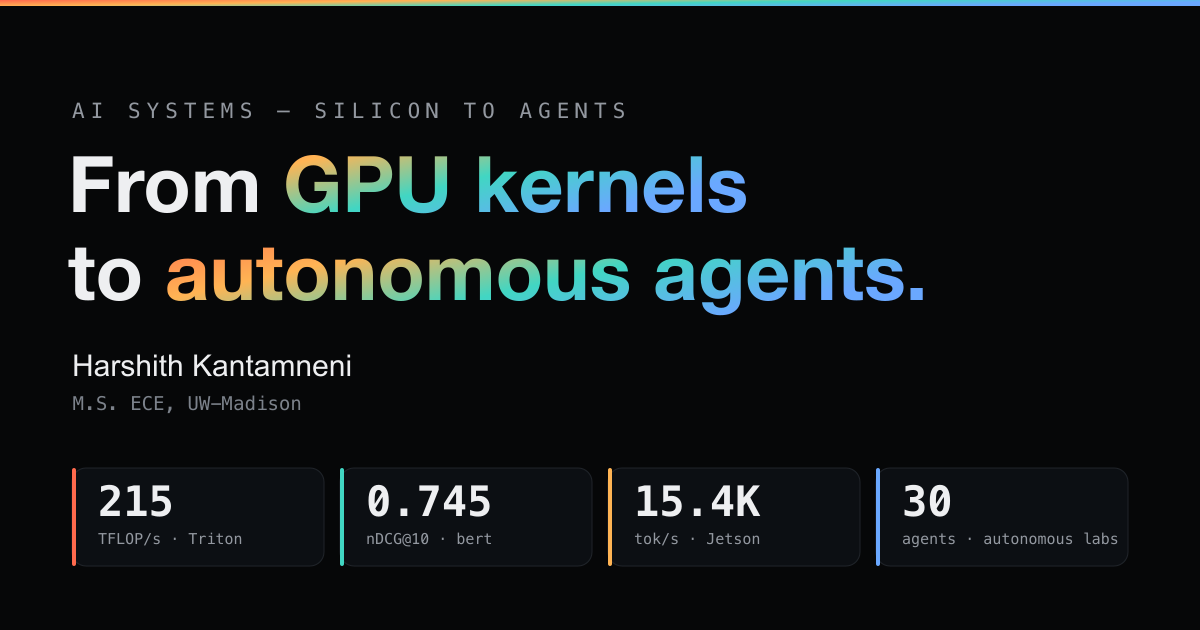
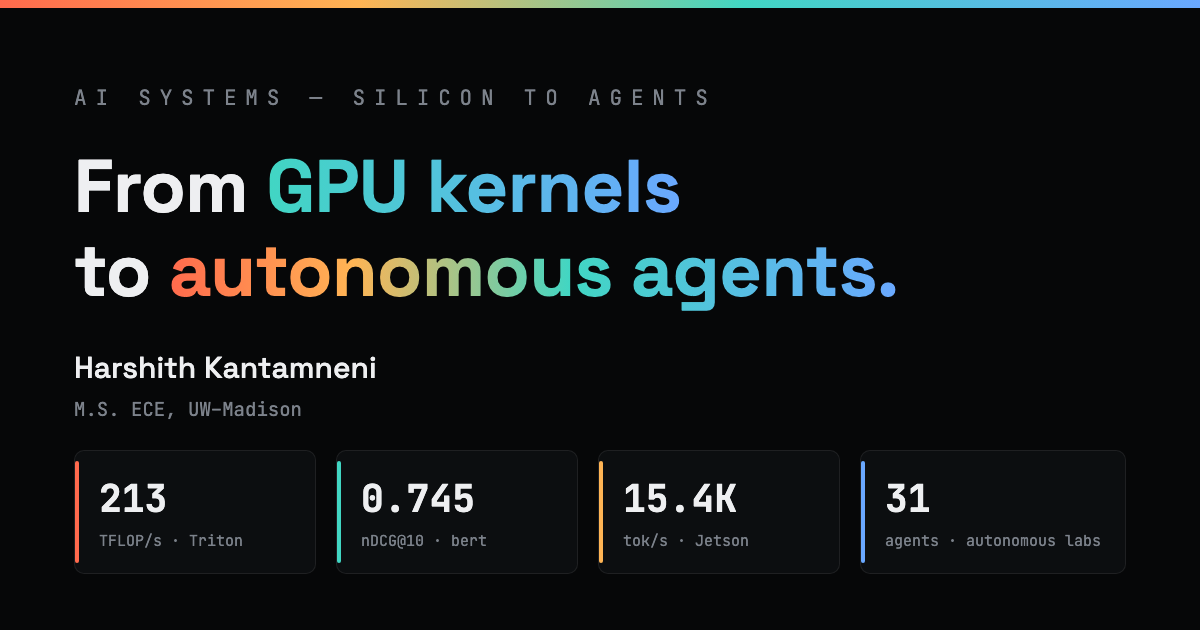
site: align all claims with repo receipts (213 TFLOP/s bare GEMM, 31 agents, 13-stage Obsidian, fusion saves two launches) + regenerate og image + resume

diff --git a/site/index.html b/site/index.html
@@ -9,7 +9,7 @@
 <link rel="canonical" href="https://harshithkantamneni.github.io/">
 <link rel="icon" href="/favicon.svg" type="image/svg+xml">
 <meta property="og:title" content="Harshith Kantamneni · AI Systems Engineer">
-<meta property="og:description" content="From GPU kernels to autonomous agents. 215 TFLOP/s Triton kernels, 0.745 nDCG retrieval, autonomous multi-agent labs.">
+<meta property="og:description" content="From GPU kernels to autonomous agents. 213 TFLOP/s Triton GEMM, 0.745 nDCG retrieval, autonomous multi-agent labs.">
 <meta property="og:type" content="website">
 <meta property="og:url" content="https://harshithkantamneni.github.io/">
 <meta property="og:image" content="https://harshithkantamneni.github.io/og.png">
@@ -222,10 +222,10 @@
   <div class="reveal">
     <div class="stackhead"><span>Fig.01 · The Stack</span><span>Silicon → Agents</span></div>
     <div class="stack">
-      <div class="layer" style="--c:var(--a)"><div class="ix">04</div><div><div class="nm">Agents &amp; Orchestration</div><div class="tc">multi-agent · MCP · governance</div></div><div class="lm"><span class="n">30</span><span class="s">autonomous agents</span></div></div>
+      <div class="layer" style="--c:var(--a)"><div class="ix">04</div><div><div class="nm">Agents &amp; Orchestration</div><div class="tc">multi-agent · MCP · governance</div></div><div class="lm"><span class="n">31</span><span class="s">autonomous agents</span></div></div>
       <div class="layer" style="--c:var(--r)"><div class="ix">03</div><div><div class="nm">Retrieval &amp; Memory</div><div class="tc">sqlite-vec · BM25 · RRF · rerank</div></div><div class="lm"><span class="n">0.745</span><span class="s">nDCG@10 · vs .665 BM25</span></div></div>
-      <div class="layer" style="--c:var(--i)"><div class="ix">02</div><div><div class="nm">LLM Inference</div><div class="tc">FlashAttention · KV-cache · quant</div></div><div class="lm"><span class="n">15.4K</span><span class="s">Jetson · single-stream decode</span></div></div>
-      <div class="layer" style="--c:var(--k)"><div class="ix">01</div><div><div class="nm">GPU Kernels · Silicon</div><div class="tc">CUDA · Triton · GEMM fusion</div></div><div class="lm"><span class="n">215</span><span class="s">Triton · TFLOP/s</span></div></div>
+      <div class="layer" style="--c:var(--i)"><div class="ix">02</div><div><div class="nm">LLM Inference</div><div class="tc">FlashAttention · KV-cache · Nsight</div></div><div class="lm"><span class="n">15.4K</span><span class="s">Jetson · single-stream decode</span></div></div>
+      <div class="layer" style="--c:var(--k)"><div class="ix">01</div><div><div class="nm">GPU Kernels · Silicon</div><div class="tc">CUDA · Triton · GEMM fusion</div></div><div class="lm"><span class="n">213</span><span class="s">Triton · TFLOP/s</span></div></div>
     </div>
   </div>
 </header>
@@ -240,16 +240,16 @@
   <div class="case-top"><div><div class="case-tag">The whole column</div><h2 class="case-title">I work the whole stack.</h2><p class="case-sub">From hand-written GPU kernels at the bottom to multi-agent systems at the top. Working every layer is how I find the one that owns the latency.</p></div></div>
   <div class="scrolly">
     <div class="viz sv">
-      <div class="dl act" data-l="0" style="--c:var(--a)"><div class="di">04</div><div><div class="dn">Agents &amp; Orchestration</div><div class="dt">multi-agent · MCP · governance</div></div><div class="dm">30</div></div>
+      <div class="dl act" data-l="0" style="--c:var(--a)"><div class="di">04</div><div><div class="dn">Agents &amp; Orchestration</div><div class="dt">multi-agent · MCP · governance</div></div><div class="dm">31</div></div>
       <div class="dl" data-l="1" style="--c:var(--r)"><div class="di">03</div><div><div class="dn">Retrieval &amp; Memory</div><div class="dt">sqlite-vec · BM25 · RRF · rerank</div></div><div class="dm">0.745</div></div>
-      <div class="dl" data-l="2" style="--c:var(--i)"><div class="di">02</div><div><div class="dn">LLM Inference</div><div class="dt">FlashAttention · KV-cache · quant</div></div><div class="dm">15.4K</div></div>
-      <div class="dl" data-l="3" style="--c:var(--k)"><div class="di">01</div><div><div class="dn">GPU Kernels · Silicon</div><div class="dt">CUDA · Triton · GEMM fusion</div></div><div class="dm">215</div></div>
+      <div class="dl" data-l="2" style="--c:var(--i)"><div class="di">02</div><div><div class="dn">LLM Inference</div><div class="dt">FlashAttention · KV-cache · Nsight</div></div><div class="dm">15.4K</div></div>
+      <div class="dl" data-l="3" style="--c:var(--k)"><div class="di">01</div><div><div class="dn">GPU Kernels · Silicon</div><div class="dt">CUDA · Triton · GEMM fusion</div></div><div class="dm">213</div></div>
     </div>
     <div class="steps" id="sy-stack">
-      <div class="step" data-step="0"><div class="k" style="color:var(--a)">04 · Agents</div><h3>Autonomous systems that build software.</h3><p>An autonomous ML research lab and HIVE, a multi-agent org, ship from pre-registered plans. I built their orchestration and signed-proof-packet governance (cosign / SLSA).</p></div>
+      <div class="step" data-step="0"><div class="k" style="color:var(--a)">04 · Agents</div><h3>Autonomous systems that build software.</h3><p>An autonomous ML research lab and HIVE, a multi-agent org, ship from pre-registered plans. I built their orchestration and anti-forgery sign-off governance.</p></div>
       <div class="step" data-step="1"><div class="k" style="color:var(--r)">03 · Retrieval</div><h3>Memory that beats the context wall.</h3><p>bert gives agents a searchable memory of a whole codebase. Hybrid retrieval, fully local, built for projects that outgrow a 1M-token window.</p></div>
-      <div class="step" data-step="2"><div class="k" style="color:var(--i)">02 · Inference</div><h3>LLM inference, profiled and tuned.</h3><p>Attention and KV-cache decode profiled on edge silicon: FlashAttention vs SDPA, plus quantization. 15.4K tok/s on a single-stream KV-cache decode microbenchmark, Jetson Orin Nano.</p></div>
-      <div class="step" data-step="3"><div class="k" style="color:var(--k)">01 · Kernels</div><h3>Down to the metal.</h3><p>Hand-written Triton kernels, GEMM fusion, removing HBM round-trips. Up to 1.73× lower latency than the unfused path on memory-bound FFN. The bare GEMM sustains 215 TFLOP/s on an A100.</p></div>
+      <div class="step" data-step="2"><div class="k" style="color:var(--i)">02 · Inference</div><h3>LLM inference, profiled and tuned.</h3><p>Attention and KV-cache decode profiled on edge silicon: fused SDPA (FlashAttention backend) vs naive attention. 15.4K tok/s on a single-stream KV-cache decode microbenchmark, Jetson Orin Nano.</p></div>
+      <div class="step" data-step="3"><div class="k" style="color:var(--k)">01 · Kernels</div><h3>Down to the metal.</h3><p>Hand-written Triton kernels, GEMM fusion, removing HBM round-trips. Up to 1.73× lower latency than the unfused path on memory-bound FFN. The bare autotuned GEMM peaks at 213 TFLOP/s on an A100.</p></div>
     </div>
   </div>
 </section>
@@ -259,7 +259,7 @@
   <div class="case-top"><div><div class="case-tag" style="color:var(--r)">Layer 03 · Retrieval &amp; Memory · Case 01</div><h2 class="case-title">bert</h2><p class="case-sub">A local MCP server that gives AI coding assistants a searchable memory of an entire codebase. Past the context window, full-context stuffing fails and truncation drops the answer. Retrieval reads only the slice that matters.</p></div><a href="https://github.com/harshithkantamneni/bert" class="btn g">View the repo →</a></div>
   <div class="scrolly">
     <div class="viz">
-      <div class="vh"><span>Accuracy vs. codebase size</span><span id="vizlabel">httpx + starlette corpus</span></div>
+      <div class="vh"><span>Accuracy vs. codebase size</span><span id="vizlabel">httpx + starlette corpus (padded to 3M)</span></div>
       <div class="chartwrap">
         <svg viewBox="0 0 460 360" width="100%" height="100%" font-family="JetBrains Mono" role="img" aria-label="Answer accuracy versus codebase size. As the codebase grows past the 1M-token context window, truncation accuracy falls from about 0.85 to 0.00, while bert hybrid retrieval holds between 0.85 and 0.75. On BEIR scifact the full stack scores 0.745 nDCG at 10.">
           <g stroke="#20242a" stroke-width="1"><line x1="60" y1="30" x2="430" y2="30"/><line x1="60" y1="100" x2="430" y2="100"/><line x1="60" y1="170" x2="430" y2="170"/><line x1="60" y1="240" x2="430" y2="240"/><line x1="60" y1="310" x2="430" y2="310"/></g>
@@ -276,12 +276,12 @@
           <text class="pt" x="345" y="280" fill="#9398A0" font-size="10" text-anchor="end">truncation → 0</text>
         </svg>
       </div>
-      <div class="bigstat"><span class="num" id="vstat">0.85</span><span class="cap" id="vcap">answer accuracy · hand-labeled gold set</span></div>
+      <div class="bigstat"><span class="num" id="vstat">0.85</span><span class="cap" id="vcap">answer accuracy · span-validated gold set</span></div>
     </div>
     <div class="steps" id="sy-bert">
       <div class="step" data-step="0"><div class="k">The problem</div><h3>A 3M-token codebase does not fit in a 1M-token window.</h3><p>At 3M tokens the project is 3× the window, so full-context is not an option. Truncate to fit and you drop the file the answer lives in. Accuracy collapses toward 0.00.</p></div>
       <div class="step" data-step="1"><div class="k">The build</div><h3>Hybrid retrieval, fully local.</h3><p>Dense vectors (sqlite-vec + bge-base-en-v1.5) and BM25 keyword search, fused by reciprocal-rank fusion, reranked by a cross-encoder. No API keys, no LLM calls. The host model only sees the slice that matters.</p></div>
-      <div class="step" data-step="2"><div class="k">The result</div><h3>Accuracy holds as the codebase grows.</h3><p>When the project fits in the window, full-context stuffing wins outright. Past it, bert retrieves only the relevant slice and holds <b style="color:var(--ink)">0.75 to 0.85</b> on a span-validated gold set, reading 4.6× fewer input tokens than truncation.</p></div>
+      <div class="step" data-step="2"><div class="k">The result</div><h3>Accuracy holds as the codebase grows.</h3><p>When the project fits in the window, full-context stuffing wins outright. Past it, bert retrieves only the relevant slice and holds <b style="color:var(--ink)">0.85 down to 0.75 at 3M</b> on a span-validated gold set, reading 4.6× fewer input tokens than truncation.</p></div>
       <div class="step" data-step="3"><div class="k">The debugging win</div><h3>A silent bug had pinned it at near-random.</h3><div class="big"><span>0.10</span> <span class="to">→ <span id="cnt">0.85</span></span></div><p>A dict-key mismatch zeroed the dense signal and a 240-char truncation dropped answer spans. Root-caused and fixed, accuracy went from 0.10 to 0.85.</p></div>
       <div class="step" data-step="4"><div class="k">Validated</div><h3>0.745 nDCG@10 on a public IR benchmark.</h3><p>Across three BEIR datasets (scifact, nfcorpus, fiqa) bge-base matches the published reference on all three. On scifact the full stack (bge-base-en-v1.5 dense vectors plus BM25, reranked by a cross-encoder) scores 0.745 against a published BM25 baseline of 0.665, on par with bge-base-en-v1.5's own published scifact result (0.741). A public benchmark on public datasets, not a self-defined one.</p></div>
     </div>
@@ -289,7 +289,7 @@
   <div class="bento">
     <div class="b reveal"><div class="bl">Interface</div><div class="bn">MCP</div><div class="bd">Local stdio server, JSON-RPC 2.0. Drops into Claude Code, Cursor, Codex.</div></div>
     <div class="b accent reveal"><div class="bl">BEIR scifact</div><div class="bn">0.745</div><div class="bd">nDCG@10, bge-base + BM25 + cross-encoder rerank. +0.080 over BM25 (0.665).</div></div>
-    <div class="b reveal"><div class="bl">Over-window</div><div class="bn">0.75</div><div class="bd">Accuracy on a hand-labeled, span-validated set (small n) at 3M tokens, where full-context is infeasible and truncation is 0.00.</div></div>
+    <div class="b reveal"><div class="bl">Over-window</div><div class="bn">0.75</div><div class="bd">Accuracy on a blind-authored, span-validated set (small n) at 3M tokens, where full-context is infeasible and truncation is 0.00.</div></div>
     <div class="b reveal"><div class="bl">Cost</div><div class="bn">~3.3K</div><div class="bd">Input tokens per query. ~4.6× fewer than truncation, higher accuracy.</div></div>
   </div>
 </section>
@@ -307,7 +307,7 @@
         </div>
         <div class="tframe" data-f="1">
           <div class="fused"><div class="fblock">linear + bias + GeLU<span>one fused kernel</span></div></div>
-          <div class="tnote">One launch. The intermediate stays in registers. An HBM round-trip and a kernel launch, gone.</div>
+          <div class="tnote">One launch. The intermediate stays in registers. Two HBM round-trips and two kernel launches, gone.</div>
         </div>
         <div class="tframe" data-f="2">
           <div class="tlead"><div class="tnum">1.73×</div><div class="tcap">vs the unfused path<br>on small-batch FFN</div></div>
@@ -321,18 +321,18 @@
           <div class="tnote">76 shapes profiled. Median 0.96× (near parity), 27 shapes win. Fusion pays off on small-batch, memory-bound FFN, the latency-bound decode regime. At large batch the GEMM goes compute-bound and the vendor path wins.</div>
         </div>
       </div>
-      <div class="tfoot">Tiled GEMM sustains <b>215 TFLOP/s</b><span>, 69% of the A100's fp16 tensor-core peak (cuBLAS peaks at ~79% on the same shapes, so the win is fusion, not raw GEMM throughput). p50 of CUDA-event-timed runs, fp16. Baseline is the unfused path: a cuBLAS GEMM plus separate bias and GeLU, PyTorch 2.1 eager.</span></div>
+      <div class="tfoot">Bare autotuned GEMM peaks at <b>213 TFLOP/s</b><span>, 68% of the A100's fp16 tensor-core peak (cuBLAS reaches ~82% on the same shapes, so the win is fusion, not raw GEMM throughput). p50 of CUDA-event-timed runs, fp16. Baseline is the unfused path: a cuBLAS GEMM plus separate bias and GeLU, PyTorch eager (2.1+).</span></div>
     </div>
     <div class="steps" id="sy-triton">
       <div class="step" data-step="0"><div class="k">The problem</div><h3>Small-batch FFN projections are memory-bound.</h3><p>Linear, then bias, then GeLU: three passes, each writing to HBM and relaunching. On small batches the GPU spends more time moving data than computing.</p></div>
-      <div class="step" data-step="1"><div class="k">The build</div><h3>Fuse the three into one Triton kernel.</h3><p>linear + bias + GeLU in a single launch, keeping the intermediate in registers. One HBM round-trip and one kernel launch, gone.</p></div>
-      <div class="step" data-step="2"><div class="k">The result</div><h3>Up to 1.73× lower latency.</h3><div class="big"><span class="to" style="color:var(--i)">1.73×</span></div><p>On the best small-batch FFN shape, M=128, N=11008, K=4096. The tiled Triton GEMM sustains 215 TFLOP/s, 69% of the A100's fp16 tensor-core peak.</p></div>
+      <div class="step" data-step="1"><div class="k">The build</div><h3>Fuse the three into one Triton kernel.</h3><p>linear + bias + GeLU in a single launch, keeping the intermediate in registers. Two HBM round-trips and two kernel launches, gone.</p></div>
+      <div class="step" data-step="2"><div class="k">The result</div><h3>Up to 1.73× lower latency.</h3><div class="big"><span class="to" style="color:var(--i)">1.73×</span></div><p>On the best small-batch FFN shape, M=128, N=11008, K=4096. The bare autotuned Triton GEMM peaks at 213 TFLOP/s, 68% of the A100's fp16 tensor-core peak.</p></div>
       <div class="step" data-step="3"><div class="k">The finding</div><h3>Where custom kernels pay off.</h3><p>I profiled all 76 shapes on p50/p90 latency, throughput, bandwidth, and jitter to find the line where a fused kernel beats cuBLAS and where the vendor library already wins. Small, skinny GEMMs favor fusion. Mapping that boundary is the result.</p></div>
     </div>
   </div>
   <div class="bento">
     <div class="b reveal"><div class="bl">Shapes profiled</div><div class="bn">76</div><div class="bd">LLM-shaped GEMMs across Triton and cuBLAS on an A100.</div></div>
-    <div class="b accent reveal" style="background:linear-gradient(180deg,rgba(255,180,84,.09),transparent)"><div class="bl">Peak throughput</div><div class="bn" style="color:var(--i)">215</div><div class="bd">TFLOP/s, 69% of fp16 tensor-core peak.</div></div>
+    <div class="b accent reveal" style="background:linear-gradient(180deg,rgba(255,180,84,.09),transparent)"><div class="bl">Peak throughput</div><div class="bn" style="color:var(--i)">213</div><div class="bd">TFLOP/s, 68% of fp16 tensor-core peak, bare autotuned GEMM.</div></div>
     <div class="b reveal"><div class="bl">Best speedup</div><div class="bn">1.73×</div><div class="bd">on small-batch FFN. Median across 76 shapes is 0.96×, parity, with 27 wins.</div></div>
     <div class="b reveal"><div class="bl">Tooling</div><div class="bn" style="font-size:24px">Nsight</div><div class="bd">CUDA event timing, roofline, tail-jitter analysis.</div></div>
   </div>
@@ -343,11 +343,11 @@
   <div class="shead reveal"><span class="mk">02</span><h2>Selected work</h2><span class="srule"></span></div>
   <div class="pgrid">
     <a class="proj span6 feat" href="https://github.com/harshithkantamneni/edge-llm-gpu-profiling" target="_blank" rel="noopener" style="--c:var(--i)"><span class="arrow" aria-hidden="true">↗</span><div><div class="pl">LLM Inference · Edge · Featured</div><div class="pn">Jetson Orin Nano profiling</div><div class="pd">Attention and KV-cache decode kernels profiled with Nsight on a 15W edge SoC. Fused SDPA measured 5.6× over naive attention. Single-stream KV-cache decode held ~15.4K tok/s on synthetic shapes before the cache-growth knee.</div></div><div class="pbig" style="color:var(--i)">5.6×<span>fused SDPA vs naive</span></div></a>
-    <a class="proj span6 feat" href="https://github.com/harshithkantamneni/obsidian-engine" target="_blank" rel="noopener" style="--c:var(--a)"><span class="arrow" aria-hidden="true">↗</span><div><div class="pl">Autonomous Pipeline · Featured</div><div class="pn">The Obsidian Archive</div><div class="pd">A 15-stage agent pipeline that researches, scripts, renders, and uploads documentaries to a live YouTube channel, with every video gated by a multi-agent review War Room of critics, fact-checkers, a red team, and convergence gates. Deployed on Railway with a Supabase backend.</div></div><div class="pbig" style="color:var(--a)">110<span>role review War Room</span></div></a>
-    <a class="proj span3" href="https://github.com/harshithkantamneni/agi-lab-framework" target="_blank" rel="noopener" style="--c:var(--a)"><span class="arrow" aria-hidden="true">↗</span><div><div class="pl">Autonomous Lab</div><div class="pn">30-agent ML research lab</div><div class="pd">Agents write a from-scratch MoE transformer in C17: hand-written tensors, backprop, 4-bit QAT, plus Apple Metal kernels wired in. No PyTorch.</div></div><div class="pm">C17 · MoE + 4-bit QAT</div></a>
+    <a class="proj span6 feat" href="https://github.com/harshithkantamneni/obsidian-engine" target="_blank" rel="noopener" style="--c:var(--a)"><span class="arrow" aria-hidden="true">↗</span><div><div class="pl">Autonomous Pipeline · Featured</div><div class="pn">The Obsidian Archive</div><div class="pd">A 13-stage pipeline of 15 specialized agents that researches, scripts, renders, and uploads documentaries to a live YouTube channel, with every video gated by per-stage quality checks, fact verification, and automatic rewrites of weak sections. Deployed on Railway with a Supabase backend.</div></div><div class="pbig" style="color:var(--a)">13<span>stages · 15 agents</span></div></a>
+    <a class="proj span3" href="https://github.com/harshithkantamneni/agi-lab-framework" target="_blank" rel="noopener" style="--c:var(--a)"><span class="arrow" aria-hidden="true">↗</span><div><div class="pl">Autonomous Lab</div><div class="pn">31-agent ML research lab</div><div class="pd">Agents write a from-scratch MoE transformer in C17: hand-written tensors, backprop, 4-bit QAT, plus Apple Metal kernels wired in. No PyTorch.</div></div><div class="pm">C17 · MoE + 4-bit QAT</div></a>
     <a class="proj span3" href="https://github.com/harshithkantamneni/hive-engine" target="_blank" rel="noopener" style="--c:var(--a)"><span class="arrow" aria-hidden="true">↗</span><div><div class="pl">Autonomous Org</div><div class="pn">HIVE</div><div class="pd">A privacy-first peer-to-peer reasoning engine in Rust: Rete-II + JTMS, local differential privacy, libp2p mesh with Dandelion++ anonymity. Built by a 45-role agent org I designed and run.</div></div><div class="pm">Rust · 1,300+ tests</div></a>
     <a class="proj span3" href="https://github.com/harshithkantamneni/Ml-Guided-CUDA-Config" target="_blank" rel="noopener" style="--c:var(--k)"><span class="arrow" aria-hidden="true">↗</span><div><div class="pl">CUDA Autotuning</div><div class="pn">ML-guided kernel config</div><div class="pd">A PyTorch MLP surrogate predicts kernel runtime and replaces exhaustive autotuning with argmin-over-grid.</div></div><div class="pm">R² = 0.96 · MAE 0.018 ms</div></a>
-    <div class="proj span3" style="--c:var(--k);cursor:default"><div><div class="pl">Memory Systems</div><div class="pn">MI300X + gem5 modeling</div><div class="pd">Characterized the AMD MI300X memory hierarchy. Parameter tuning cut gem5's vL1D latency MAPE from 89% to 5%, and pinned the structural gaps tuning alone cannot fix.</div></div><div class="pm">89% → 5% MAPE · 4.6 to 4.8 TB/s write</div></div>
+    <div class="proj span3" style="--c:var(--k);cursor:default"><div><div class="pl">Memory Systems</div><div class="pn">MI300X + gem5 modeling</div><div class="pd">Characterized the AMD MI300X memory hierarchy (UW-Madison course project). Parameter tuning cut gem5's vL1D latency MAPE from 89% to 5%, and pinned the structural gaps tuning alone cannot fix.</div></div><div class="pm">89% → 5% MAPE · 4.6 to 4.8 TB/s write</div></div>
   </div>
 </section>
 
@@ -366,8 +366,8 @@
 <section class="wrap" id="writing" style="padding:40px 0 0">
   <div class="shead reveal"><span class="mk">04</span><h2>Writing</h2><span class="srule"></span></div>
   <div class="wlist">
-    <a class="wrow reveal" href="https://harshithkantamneni.github.io/reports/below-the-measurement-floor-a-pre-registered-dense-vs-moe-null-at-sub-100m-active-parameters" target="_blank" rel="noopener"><span class="wd">Jun 2026</span><span class="wt">Below the Measurement Floor: a pre-registered dense-vs-MoE null<span class="wsub">Pre-registered compute-matched comparison. Every cell lands below the measurement floor, and the null is the result.</span></span><span class="wm">Report</span></a>
-    <a class="wrow reveal" href="https://harshithkantamneni.github.io/reports/recursive-verification-surface-collapse" target="_blank" rel="noopener"><span class="wd">Jun 2026</span><span class="wt">Recursive Verification-Surface Collapse<span class="wsub">The null-set principal problem in self-grading labs, and three structural fixes, from 100+ autonomous cycles.</span></span><span class="wm">Report</span></a>
+    <a class="wrow reveal" href="https://harshithkantamneni.github.io/reports/below-the-measurement-floor-a-pre-registered-dense-vs-moe-null-at-sub-100m-active-parameters" target="_blank" rel="noopener"><span class="wd">May 2026</span><span class="wt">Below the Measurement Floor: a pre-registered dense-vs-MoE null<span class="wsub">Pre-registered compute-matched comparison. Every cell lands below the measurement floor, and the null is the result.</span></span><span class="wm">Report</span></a>
+    <a class="wrow reveal" href="https://harshithkantamneni.github.io/reports/recursive-verification-surface-collapse" target="_blank" rel="noopener"><span class="wd">May 2026</span><span class="wt">Recursive Verification-Surface Collapse<span class="wsub">The null-set principal problem in self-grading labs, and three structural fixes, from 100+ autonomous cycles.</span></span><span class="wm">Report</span></a>
     <a class="wrow reveal" href="https://harshithkantamneni.github.io/notes/llm-judge-bias" target="_blank" rel="noopener"><span class="wd">May 2026</span><span class="wt">When the LLM judge is biased<span class="wsub">Same-family preference leakage when four Claude instances grade each other, tested against an ICLR 2026 result.</span></span><span class="wm">Note</span></a>
     <a class="wrow reveal" href="https://harshithkantamneni.github.io/notes/tier-per-task" target="_blank" rel="noopener"><span class="wd">May 2026</span><span class="wt">Tier-per-task: routing models by the job<span class="wsub">Why model tiering belongs at the task level, not the role level.</span></span><span class="wm">Note</span></a>
   </div>
@@ -435,7 +435,7 @@ if(!reduce && window.gsap){
       steps.forEach(x=>gsap.to(x,{opacity:x===st?1:.5,duration:.3}));cb&&cb(+st.dataset.step);}}}));}
 
   const stat=document.getElementById('vstat'),cap=document.getElementById('vcap'),vl=document.getElementById('vizlabel');
-  const states=[{s:'3M',c:'codebase tokens vs a 1M window',l:'the problem'},{s:'3',c:'signals fused · dense + BM25 + rerank',l:'hybrid retrieval'},{s:'0.75',c:'accuracy past the window, where truncation is 0.00',l:'accuracy vs codebase size'},{s:'0.85',c:'recovered from a silent dense-signal bug',l:'the fix'},{s:'0.745',c:'nDCG@10 · BEIR scifact · +0.08 over BM25',l:'validated'}];
+  const states=[{s:'3M',c:'codebase tokens vs a 1M window',l:'the problem'},{s:'3',c:'stages · dense + BM25 fused, then rerank',l:'hybrid retrieval'},{s:'0.75',c:'accuracy past the window, where truncation is 0.00',l:'accuracy vs codebase size'},{s:'0.85',c:'recovered from a silent dense-signal bug',l:'the fix'},{s:'0.745',c:'nDCG@10 · BEIR scifact · +0.08 over BM25',l:'validated'}];
   scrolly('#sy-bert',i=>{const d=states[i];stat.textContent=d.s;cap.textContent=d.c;vl.textContent=d.l;});
   ScrollTrigger.create({trigger:'#sy-bert .step[data-step="3"]',start:'top 55%',once:true,onEnter:()=>{const o={v:.1};gsap.to(o,{v:.85,duration:1.4,ease:'power2.out',onUpdate:()=>document.getElementById('cnt').textContent=o.v.toFixed(2)});}});
 

diff --git a/site/reports/recursive-verification-surface-collapse/index.html b/site/reports/recursive-verification-surface-collapse/index.html
@@ -133,7 +133,6 @@
 <p>If you are running an autonomous lab and observing similar patterns, I would like to hear about it. Substantive critique, replication attempts, and counter-evidence are all welcome.</p>
 <p>
   <a href="mailto:kantamneniharshith@gmail.com?subject=Re%3A%20Recursive%20Verification-Surface%20Collapse">→ Reply by email</a><br>
-  <a href="https://news.ycombinator.com/">↗ Discuss on Hacker News</a><br>
 </p>
 
 <h3>Harshith Kantamneni</h3>
